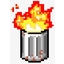
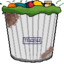
visual,crash restart,adjusts

diff --git a/main.py b/main.py
@@ -1,4 +1,6 @@
 import pygame
+import time
+import threading
 import numpy as np  
 pygame.init()
 
@@ -8,6 +10,7 @@ def scrollY(screenSurf, offsetY):
     width, height = screenSurf.get_size()
     copySurf = screenSurf.copy()
     screenSurf.blit(copySurf, (0, offsetY))
+    
     if offsetY < 0:
         screenSurf.blit(copySurf, (0, height + offsetY), (0, 0, width, -offsetY))
     else:
@@ -20,23 +23,26 @@ class Game(object):
         self.height = height
         self.title = title
         self.caption = pygame.display.set_caption(title)
-        self.game_font = pygame.font.SysFont("Times New Roman", 25)
+        self.game_font = pygame.font.Font("font/PressStart2P-Regular.ttf", 25)
         self.player_lifes = 3
+        self.life_positions = [(50,50),(100,50),(150,50)]
         self.bg = pygame.image.load("bg.png").convert_alpha()
-
+        self.restarting = False
+    
     def start(self,move):
         self.window.blit(self.bg, (0, move))
-        scrollY(self.bg, 20)
-        batidas = self.game_font.render('Batidas:', 1, (255,0,0))
-        qtd = self.game_font.render(str(car.crashCount), 1, (255,0,0))
+        
+        if self.restarting:
+            self.bg_move('STOP')
+        else:
+            self.bg_move('START')
+        
+        batidas = self.game_font.render('Batidas:' + str(car.crashCount), 1, (255,0,0))
         self.window.blit(batidas,(500,50))
-        self.window.blit(qtd,(600,50))
-        life_positions = [(50,50),(100,50),(150,50)]
+       
+        self.display_lifes()
         obstacles.create()
-
-        for position in life_positions:
-            game.window.blit(lifes,position)
-
+      
         if car.left:
             car.create(curveLeft)
         elif car.right:
@@ -45,6 +51,21 @@ class Game(object):
             car.create(curveBottom)
         else:
             car.create(carNormal)
+
+    def bg_move(self,condition):
+        if condition == 'STOP':
+            scrollY(self.bg,0)
+        else:
+            if car.crashCount >= 3:
+                scrollY(self.bg,0)
+            else:
+                scrollY(self.bg, 20)
+
+    def display_lifes(self):
+        for position in self.life_positions:
+            game.window.blit(lifes,position)
+    
+        
 
 class Car(object):
     def __init__(self,x,y,width,height,velocity):
@@ -67,24 +88,66 @@ class Car(object):
     
     def hit(self):
         self.crashCount += 1
-        print('bateu')
+        self.move_to_start()
+        if len(game.life_positions)> 0:
+            game.life_positions.pop()
+        game.player_lifes -=1
+        obstacles.all = []
+        game.restarting = True
+        
+    def in_road(self,side):
+        if side == 'L':
+            if self.x > self.vel+130:
+                return True
+            else:
+                return False
+        elif side == 'R':
+            if self.x < (game.width - self.width - 150):
+                return True
+            else:
+                return False
+    
+    def move_to_start(self):
+        self.x = (game.width/2)
+        self.y = (game.height-100)
+
+    def move(self,orientation):
+        if orientation == 'L':
+            self.x = self.x - self.vel
+            self.left = True
+            self.right = False
+            self.bottom = False
+
+        elif orientation == 'R':
+            self.x = self.x + self.vel
+            self.left = False
+            self.right = True
+            self.bottom = False
+
+        elif orientation == 'UP':
+            self.y = self.y - self.vel
+            self.left = False
+            self.right = False
+            self.bottom = False
+
+        elif orientation == 'DOWN':
+            self.y = self.y + self.vel
+            self.left = False
+            self.right = False
+            self.bottom = True     
 
     def collide(self,obstacle):
         if (car.y - car.height/2) < (obstacle.hitbox[1] + obstacle.hitbox[3]/2) and (car.y -car.height/2) > (obstacle.hitbox[1] - obstacle.hitbox[3]/2):
             if(car.x + car.width/2) > (obstacle.hitbox[0]-obstacle.hitbox[2]/2) and (car.x + car.width/2) < (obstacle.hitbox[0]+obstacle.hitbox[2]/2):
-                car.hit()
                 return True
             elif(car.x-car.width/2) < (obstacle.hitbox[0]+obstacle.hitbox[2]/2) and (car.x + car.width/2) > (obstacle.hitbox[0]+obstacle.hitbox[2]/2):
-                car.hit()
                 return True
             else:
                 return False
         elif ((car.y + car.height/2)< (obstacle.hitbox[1] + obstacle.hitbox[3]/2) and (car.y + car.height/2) > (obstacle.hitbox[1] - obstacle.hitbox[3]/2)):
             if(car.x + car.width/2) > (obstacle.hitbox[0]-obstacle.hitbox[2]/2) and (car.x + car.width/2) < (obstacle.hitbox[0]+obstacle.hitbox[2]/2):
-                car.hit()
                 return True
             elif(car.x-car.width/2) < (obstacle.hitbox[0]+obstacle.hitbox[2]/2) and (car.x + car.width/2) > (obstacle.hitbox[0]+obstacle.hitbox[2]/2):
-                car.hit()
                 return True
             else:
                 return False
@@ -102,6 +165,10 @@ class Obstacles(object):
                 new_trash = Trash(64,64)
                 new_trash.create()
                 self.all.append(new_trash)
+        
+        #remove all obstacles if max crash nums        
+        if car.crashCount >= 3:
+            self.all = []
 
 class Trash(object):
     def __init__(self,width,height):
@@ -124,6 +191,7 @@ class Trash(object):
             self.y -= 700
             self.x = np.random.randint(game.width - 100)
 
+# start the game
 game = Game(840,650,"Car crash")
 
 # global images
@@ -131,56 +199,63 @@ curveRight = pygame.image.load('car2R.png').convert_alpha()
 curveLeft = pygame.image.load('car2L.png').convert_alpha()
 curveBottom = pygame.image.load('car2B.png').convert_alpha()
 carNormal = pygame.image.load("car2.png").convert_alpha()
-lifes = pygame.image.load("lifes.png").convert_alpha()
+lifes = pygame.image.load("lifes2.png").convert_alpha()
 background_img = pygame.image.load("bg.png").convert_alpha()
-trash = pygame.image.load("trash.png").convert_alpha()
+trash = pygame.image.load("t.png").convert_alpha()
 running = True
 
 
 car = Car((game.height-100),(game.width/2),64,64,20)
 obstacles = Obstacles()
-
+start_time = pygame.time.get_ticks()
+restart_time = 5
 speed = 0
 while running:
-
+    current_time = pygame.time.get_ticks()
+    if game.restarting:
+        if restart_time > 0:
+            batidas = game.game_font.render('Você bateu, voltando em :' + str(restart_time), 1, (255,0,0))
+            game.window.blit(batidas,(100,250))
+            pygame.display.update()
+            print(current_time - start_time,restart_time,game.restarting)
+            if current_time - start_time > 1000:
+                restart_time -= 1
+                start_time = current_time
+        else :
+            game.restarting = False
+            restart_time = 5
+            obstacles.all = []
+    
     for event in pygame.event.get():
         if event.type == pygame.QUIT:
             pygame.quit()
             running = False
     
+    
     for obstacle in obstacles.all:
-        obstacle.create()
+        if car.crashCount < 4:
+            obstacle.create()
+
         if car.collide(obstacle):
-            print('BATEU')
+            car.hit()
+            
     
     keys = pygame.key.get_pressed()
     
-    if keys[pygame.K_LEFT] and car.x > car.vel:
-        car.x = car.x - car.vel
-        car.left = True
-        car.right = False
-        car.bottom = False
+    if keys[pygame.K_LEFT] and car.in_road('L'):
+        car.move('L')
 
-    if keys[pygame.K_RIGHT] and car.x < (game.width - car.width):
-        car.x = car.x + car.vel
-        car.left = False
-        car.right = True
-        car.bottom = False
+    if keys[pygame.K_RIGHT] and car.in_road('R'):
+        car.move('R')
 
     if keys[pygame.K_UP] and car.y > 0:
-        car.y = car.y - car.vel
-        car.left = False
-        car.right = False
-        car.bottom = False
+        car.move('UP')
 
     if keys[pygame.K_DOWN] and car.y < (game.height - car.height-20):
-        car.y = car.y + car.vel+6
-        car.left = False
-        car.right = False
-        car.bottom = True     
-        scrollY(game.bg, 5)
+        car.move('DOWN')
     
     game.start(speed)
     clock.tick(30)
     pygame.display.update()
+
 pygame.quit()
